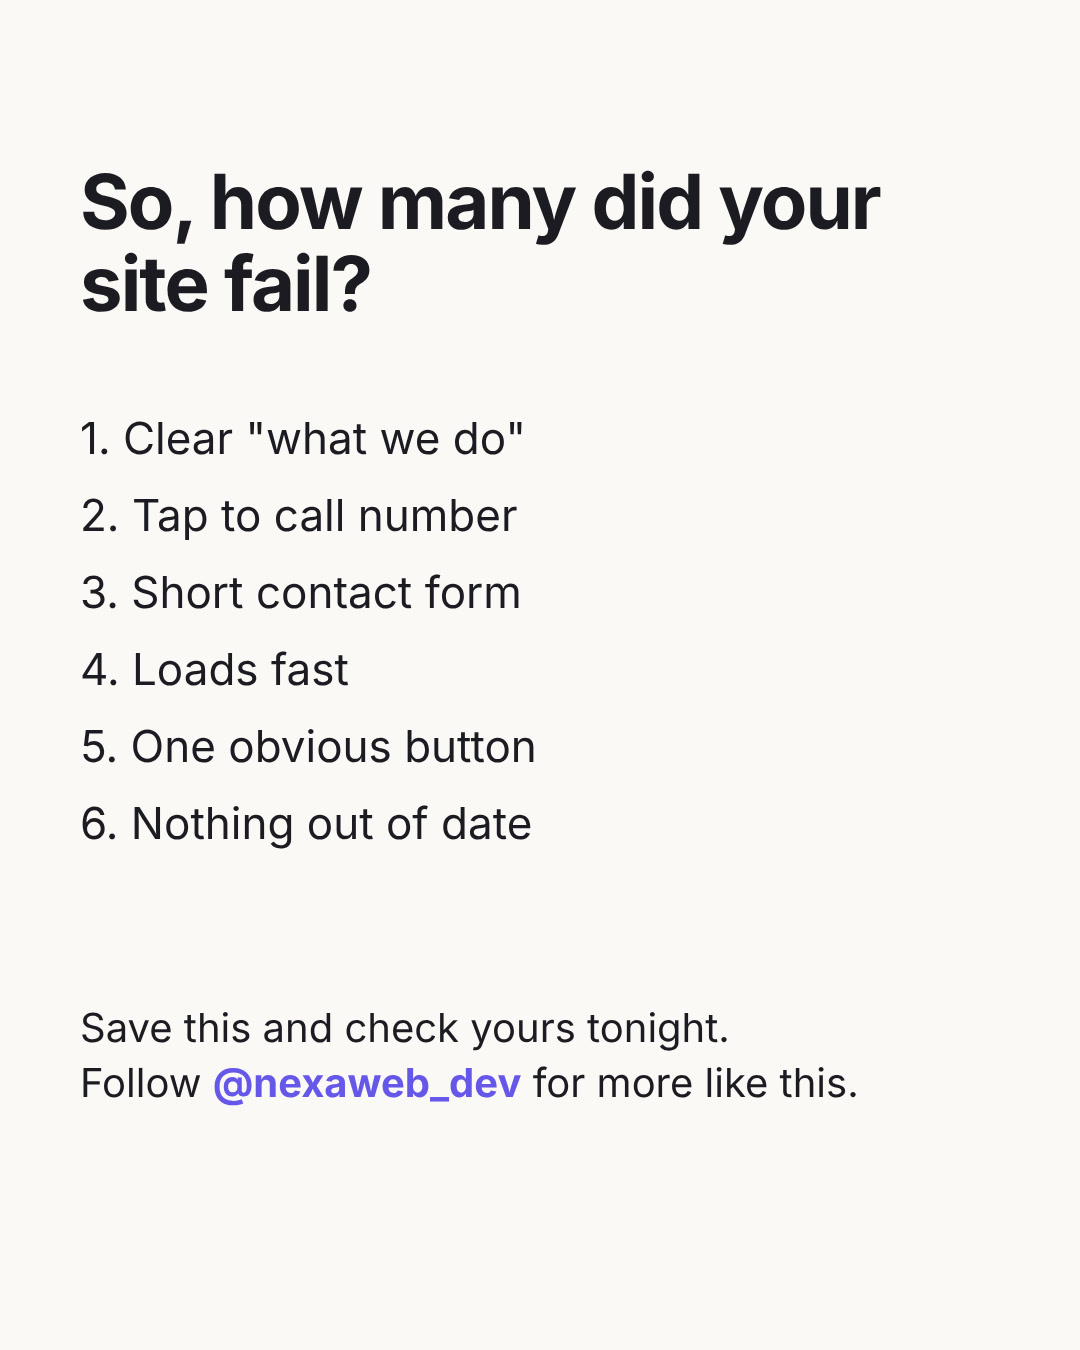
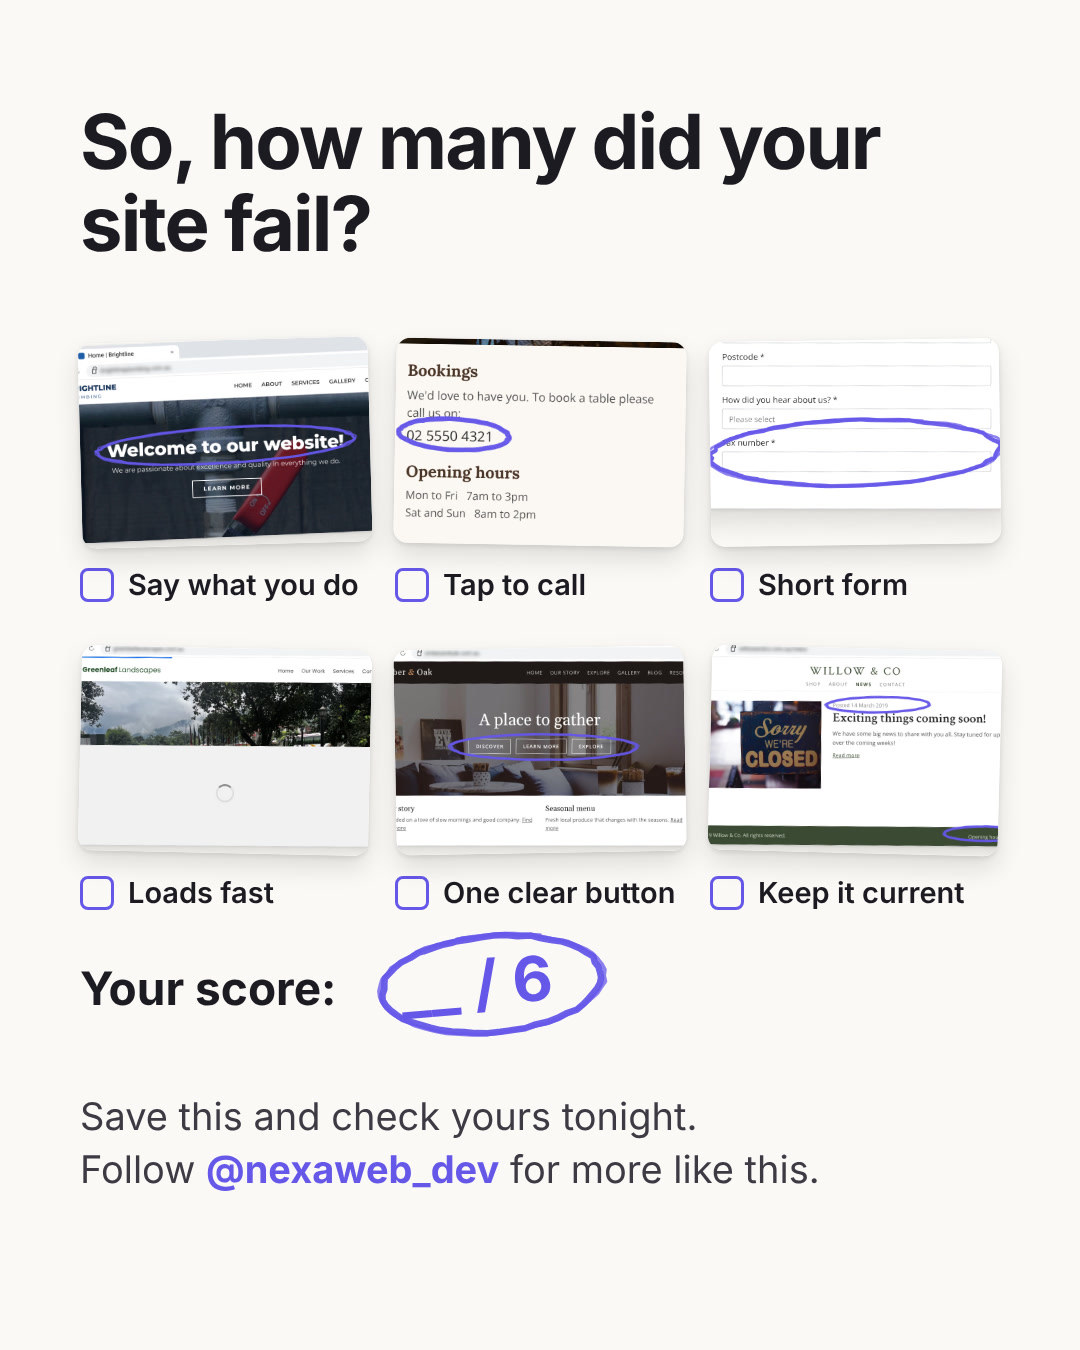
Nexa carousel: visual recap last slide
Claude-Session: https://claude.ai/code/session_01MAv6C5ZgnW2b7gxvkk4iYD

Changed region(s): [[0.0611, 0.0622, 0.9472, 0.9022]]

diff --git a/nexa/images/website-costing-customers-6-signs/src/slides.html b/nexa/images/website-costing-customers-6-signs/src/slides.html
@@ -166,10 +166,18 @@ svg.sc{position:absolute;overflow:visible;pointer-events:none}
 
 <!-- 8 -->
 <div class="s" id="s8">
- <div class="t" style="top:160px;font-size:76px">So, how many did your site fail?</div>
- <div class="p" style="top:400px;font-size:44px;line-height:1.75;color:var(--ink)">
-  1. Clear "what we do"<br>2. Tap to call number<br>3. Short contact form<br>4. Loads fast<br>5. One obvious button<br>6. Nothing out of date</div>
- <div class="p" style="top:1000px;font-size:40px;color:var(--ink)">Save this and check yours tonight.<br>Follow <b style="color:var(--ind)">@nexaweb_dev</b> for more like this.</div>
+ <div class="t" style="top:100px;font-size:76px">So, how many did your site fail?</div>
+ <div style="position:absolute;left:80px;right:80px;top:340px;display:flex;flex-wrap:wrap;gap:46px 25px"><div style="width:290px"><div style="height:205px;border-radius:14px;overflow:hidden;box-shadow:0 2px 5px rgba(0,0,0,.1),0 12px 26px rgba(0,0,0,.12);transform:rotate(-1.5deg);background:#fff"><img src="img/t02.jpg" style="width:100%;height:100%;object-fit:cover;display:block"></div>
+<div style="display:flex;align-items:center;gap:14px;margin-top:22px;font-size:29px;font-weight:600"><span style="width:34px;height:34px;flex:none;border:3.5px solid #6557E8;border-radius:8px"></span>Say what you do</div></div><div style="width:290px"><div style="height:205px;border-radius:14px;overflow:hidden;box-shadow:0 2px 5px rgba(0,0,0,.1),0 12px 26px rgba(0,0,0,.12);transform:rotate(1deg);background:#fff"><img src="img/t03.jpg" style="width:100%;height:100%;object-fit:cover;display:block"></div>
+<div style="display:flex;align-items:center;gap:14px;margin-top:22px;font-size:29px;font-weight:600"><span style="width:34px;height:34px;flex:none;border:3.5px solid #6557E8;border-radius:8px"></span>Tap to call</div></div><div style="width:290px"><div style="height:205px;border-radius:14px;overflow:hidden;box-shadow:0 2px 5px rgba(0,0,0,.1),0 12px 26px rgba(0,0,0,.12);transform:rotate(-0.8deg);background:#fff"><img src="img/t04.jpg" style="width:100%;height:100%;object-fit:cover;display:block"></div>
+<div style="display:flex;align-items:center;gap:14px;margin-top:22px;font-size:29px;font-weight:600"><span style="width:34px;height:34px;flex:none;border:3.5px solid #6557E8;border-radius:8px"></span>Short form</div></div><div style="width:290px"><div style="height:205px;border-radius:14px;overflow:hidden;box-shadow:0 2px 5px rgba(0,0,0,.1),0 12px 26px rgba(0,0,0,.12);transform:rotate(1.2deg);background:#fff"><img src="img/t05.jpg" style="width:100%;height:100%;object-fit:cover;display:block"></div>
+<div style="display:flex;align-items:center;gap:14px;margin-top:22px;font-size:29px;font-weight:600"><span style="width:34px;height:34px;flex:none;border:3.5px solid #6557E8;border-radius:8px"></span>Loads fast</div></div><div style="width:290px"><div style="height:205px;border-radius:14px;overflow:hidden;box-shadow:0 2px 5px rgba(0,0,0,.1),0 12px 26px rgba(0,0,0,.12);transform:rotate(-1deg);background:#fff"><img src="img/t06.jpg" style="width:100%;height:100%;object-fit:cover;display:block"></div>
+<div style="display:flex;align-items:center;gap:14px;margin-top:22px;font-size:29px;font-weight:600"><span style="width:34px;height:34px;flex:none;border:3.5px solid #6557E8;border-radius:8px"></span>One clear button</div></div><div style="width:290px"><div style="height:205px;border-radius:14px;overflow:hidden;box-shadow:0 2px 5px rgba(0,0,0,.1),0 12px 26px rgba(0,0,0,.12);transform:rotate(1.4deg);background:#fff"><img src="img/t07.jpg" style="width:100%;height:100%;object-fit:cover;display:block"></div>
+<div style="display:flex;align-items:center;gap:14px;margin-top:22px;font-size:29px;font-weight:600"><span style="width:34px;height:34px;flex:none;border:3.5px solid #6557E8;border-radius:8px"></span>Keep it current</div></div></div>
+ <div style="position:absolute;left:80px;top:960px;font-size:46px;font-weight:700">Your score:</div>
+ <div style="position:absolute;left:400px;top:946px;font:700 62px Inter;color:#6557E8;transform:rotate(-5deg)">__ / 6</div>
+ <svg class="sc" id="k8" style="left:372px;top:926px" width="240" height="116"></svg>
+ <div style="position:absolute;left:80px;top:1090px;font-size:38px;line-height:1.4;color:#3d3a44">Save this and check yours tonight.<br>Follow <b style="color:var(--ind)">@nexaweb_dev</b> for more like this.</div>
 </div>
 
 <script>
@@ -188,6 +196,6 @@ function arrow(id,x1,y1,x2,y2,bend){const el=document.getElementById(id);const m
  for(let i=0;i<=30;i++){const t=i/30;pts.push([(1-t)*(1-t)*x1+2*(1-t)*t*mx+t*t*x2+(rnd()-.5)*2,(1-t)*(1-t)*y1+2*(1-t)*t*my+t*t*y2+(rnd()-.5)*2])}
  const a=Math.atan2(y2-pts[27][1],x2-pts[27][0]);const h1=[x2-26*Math.cos(a-.5),y2-26*Math.sin(a-.5)],h2=[x2-26*Math.cos(a+.5),y2-26*Math.sin(a+.5)];
  el.innerHTML=`<path d="${P(pts)} M${h1[0]} ${h1[1]} L${x2} ${y2} L${h2[0]} ${h2[1]}" stroke="${C}" stroke-width="6.5" fill="none" stroke-linecap="round" stroke-linejoin="round"/>`}
-circle('k2',670,110,-2);circle('k3',170,62,2);arrow('a3',20,120,200,62,45);circle("k4",470,122,-1);circle('k6',520,88,1);circle('k7',290,60,-2);circle('k7b',230,58,-1);
+circle('k2',670,110,-2);circle('k3',170,62,2);arrow('a3',20,120,200,62,45);circle("k4",470,122,-1);circle('k6',520,88,1);circle('k7',290,60,-2);circle('k7b',230,58,-1);circle('k8',240,116,-5);
 </script>
 </body></html>
